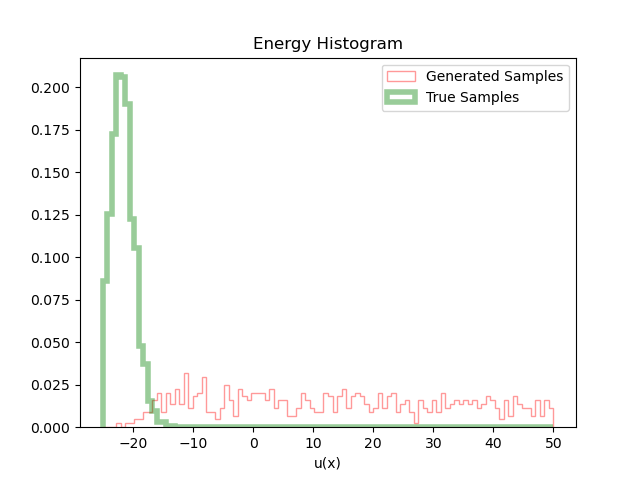
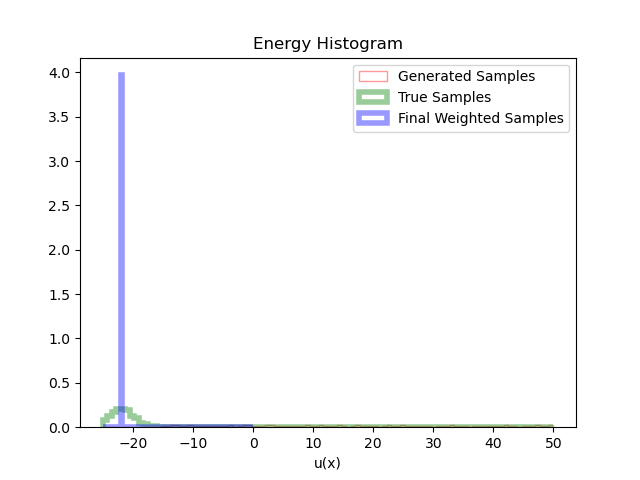
corrections again

diff --git a/eval_and_plot.py b/eval_and_plot.py
@@ -186,8 +186,8 @@ def plot_generating_flow(args, data, flow, prior, target, latent, samples, model
             linewidth=4,
             label='True Samples');
     
-        # plt.hist(energies_bg, bins=100, density=True, range=(min_energy, 0), alpha=0.4, histtype='step', linewidth=4,
-        # color="b", label="Final Weighted Samples", weights=np.exp(-log_w));
+        plt.hist(energies_bg, bins=100, density=True, range=(min_energy, 0), alpha=0.4, histtype='step', linewidth=4,
+            color="b", label="Final Weighted Samples", weights=np.exp(-log_w));
 
         plt.xlabel("u(x)", fontsize=10)
         # plt.xticks([...])
